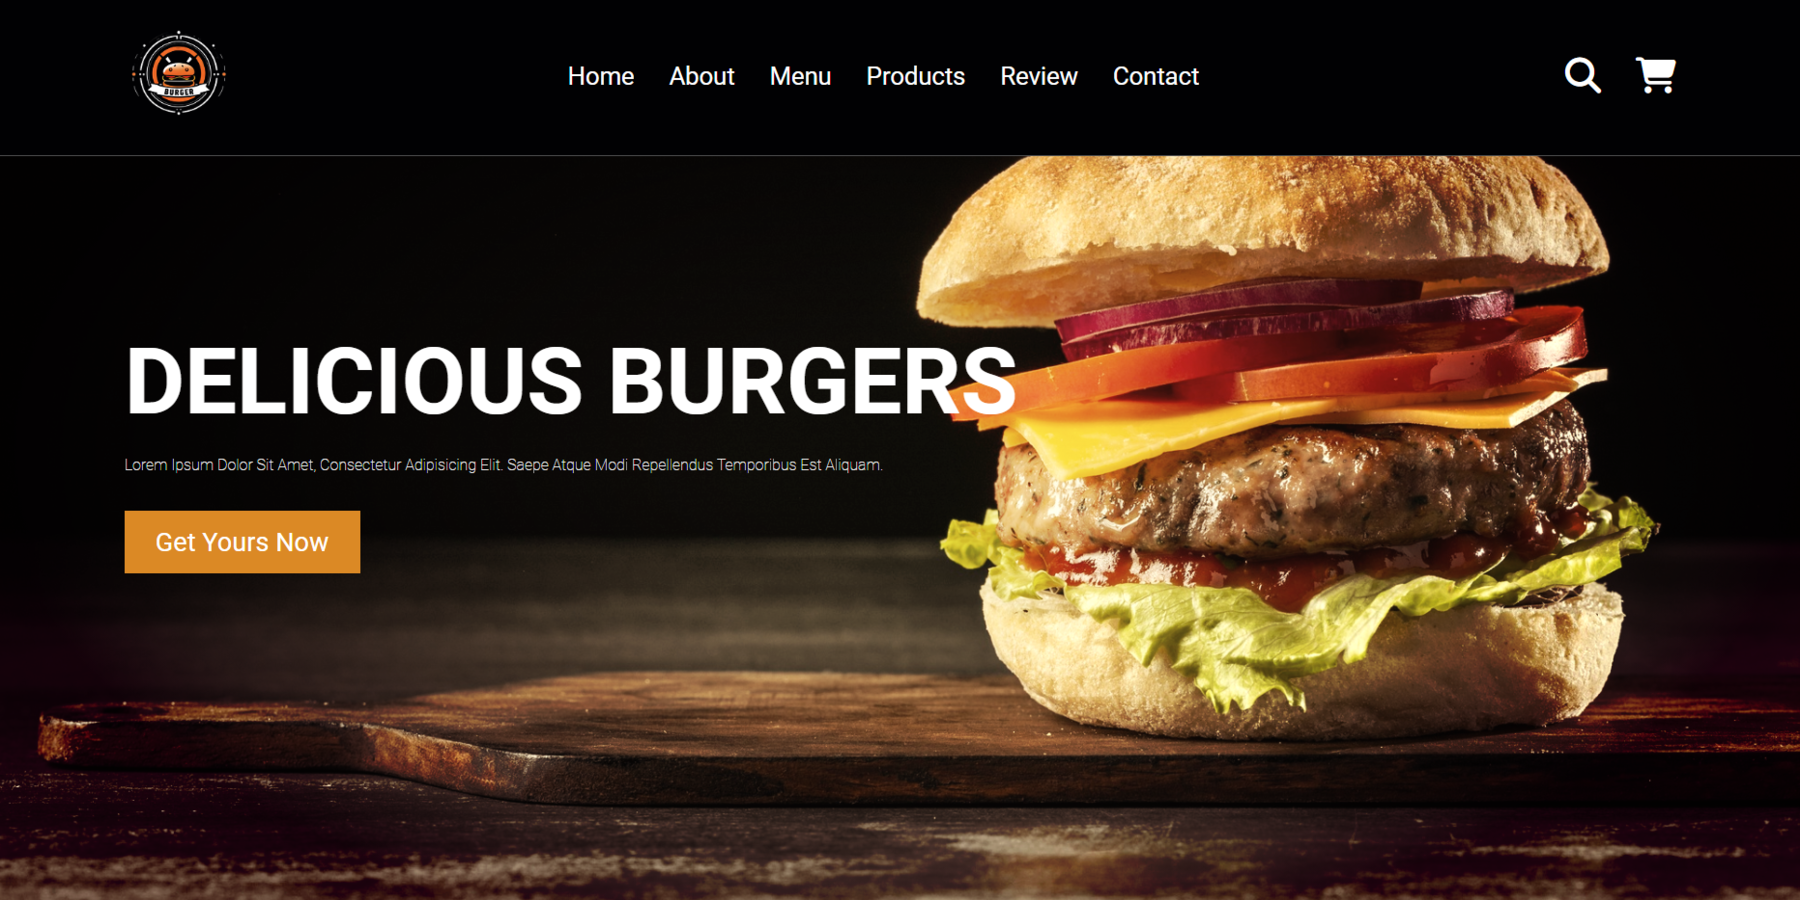
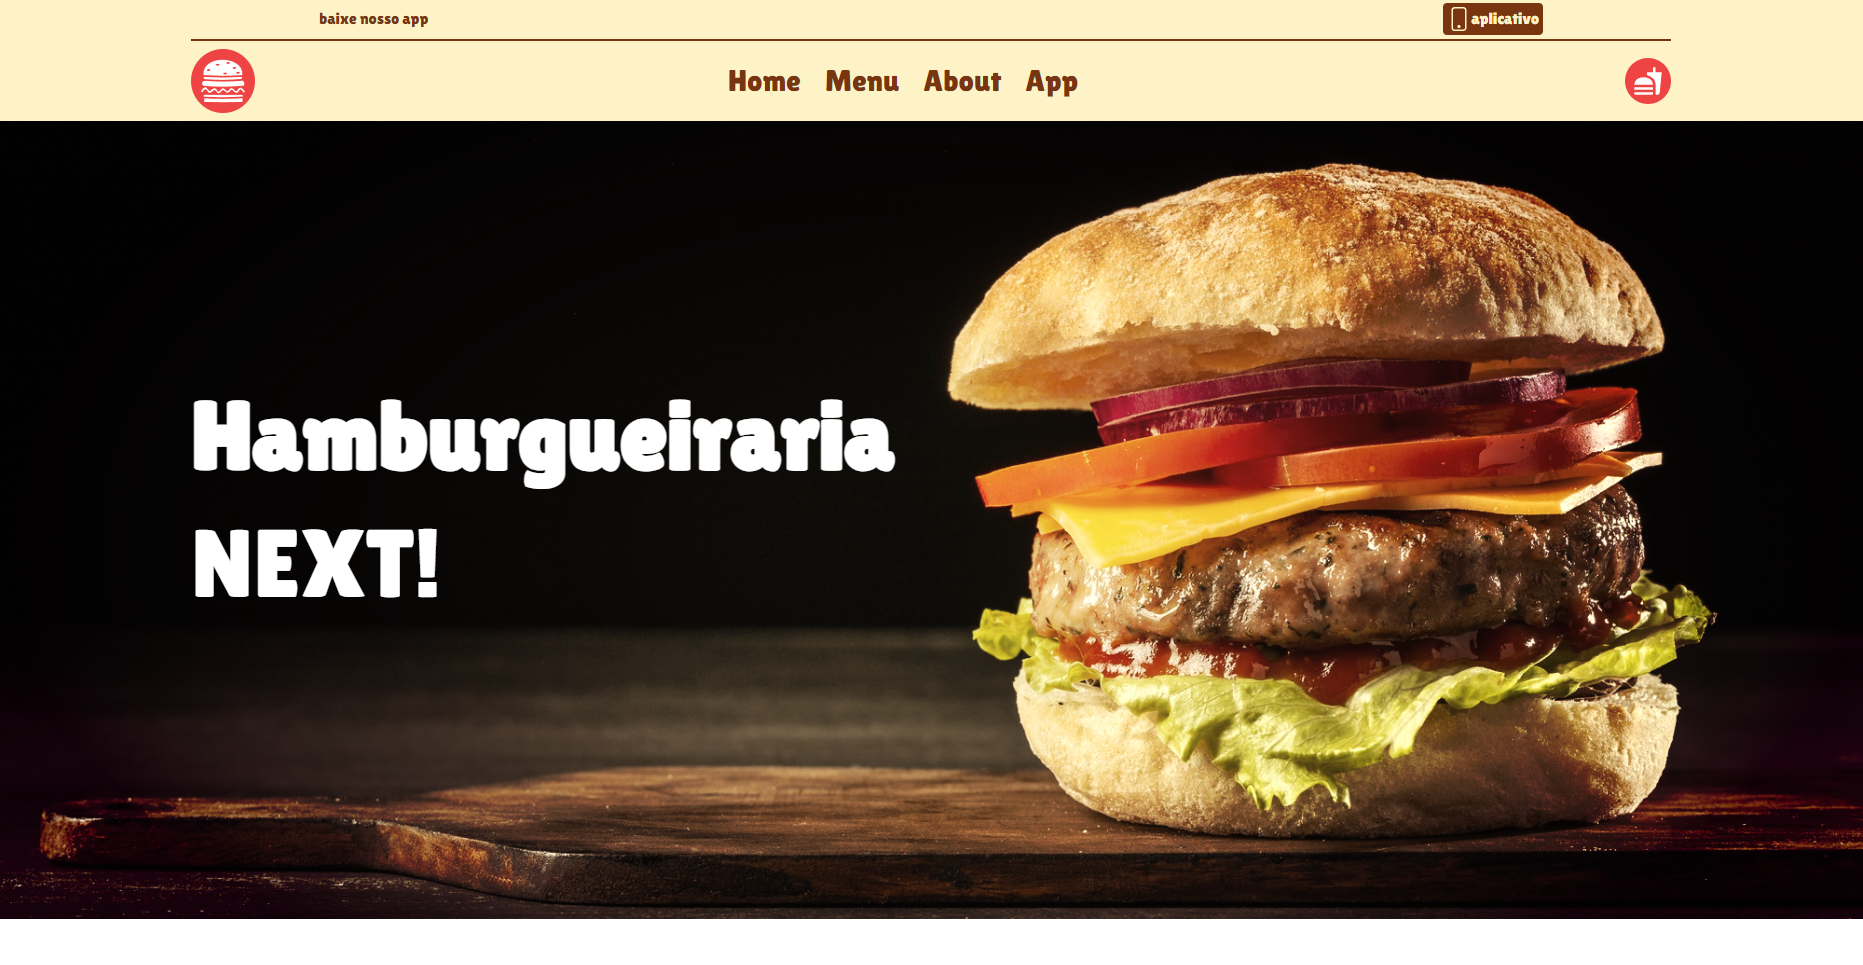
att - project 1

diff --git a/links/page01.html b/links/page01.html
@@ -38,22 +38,22 @@
 
                 <div class="box-text">
                     <h1 class="title" data-anime="botton">Hamburgueiraria</h1>
-                    <p>O hamburgueiraria foi o meu primeiro site criado. No desenvolvimento deste projeto, tive como objetivo entender mais sobre <strong>HTML e CSS</strong> para manipular os elementos sem utilizar uma linguagem de programação.</p>
-                    <p>Neste projeto, procurei aplicar todo o conhecimento adquirido durante o período de criação, incluindo displays, animações, semântica e <strong>responsividade</strong>.</p>
+                    <p>O Hamburgueria NEXT foi inspirada no meu primeiro site desenvolvido. Decidi criá-la porque, em sua <a href="https://hamburgueiraria.vercel.app"><strong>primeira versão</strong></a>, utilizei apenas HTML, CSS e JavaScript. No Hamburgueria NEXT, recriei-o em <strong>Next.js</strong>, com o auxílio das ferramentas do <strong>Tailwind e TypeScript</strong>.</p>
+                    <p>Essas tecnologias foram escolhidas, pois estou aprimorando meus conhecimentos e as apliquei na versão atual do projeto.</p>
                 </div>
 
                 <div class="buttons">
 
                     <div>
-                        <a href="https://hamburgueiraria.vercel.app" class="btn button1" target="_blank">Site</a>
-                        <a href="https://github.com/carlosna7/FirstSPT" class="btn button2" target="_blank">Repositório</a>
+                        <a href="https://hamburgueiraria-next-carlosna7.vercel.app" class="btn button1" target="_blank">Site</a>
+                        <a href="https://github.com/carlosna7/Hamburgueiraria-next" class="btn button2" target="_blank">Repositório</a>
                     </div>
 
                 </div>
 
             </div>
 
-        </div>
+        </div>       
 
         <div class="main-scroll-img">
 

diff --git a/index.html b/index.html
@@ -71,8 +71,6 @@
 
 </section>
 
-
-
         <!-- aboutMe section starts -->
 
 <section class="aboutMe" id="aboutMe">
@@ -108,15 +106,16 @@
             <div class="box">
 
                 <div class="text" data-anime="right">
-                    <h3>Hamburgueiraria</h3>
+                    <h3>Hamburgueiraria NEXT</h3>
                 </div>
                 <div class="image" data-anime="left">
                     <img src="imagens/projetoimg1.png" alt="">
                 </div>
                 <div class="icons" data-anime="right">
-                    <img src="imagens/html-200.png" alt="">
-                    <img src="imagens/css-200.png" alt="">
-                    <img src="imagens/javascript-200.png" alt="">
+                    <img src="imagens/react-200.png" alt="">
+                    <img src="imagens/nextjs-240.png" alt="">
+                    <img src="imagens/tailwind-200.png" alt="">
+                    <img src="imagens/typescript-200.png" alt="">
                 </div>
                 <div data-anime="right">
                     <a href="/links/page01.html" class="btn button1" >Ver Mais</a>
